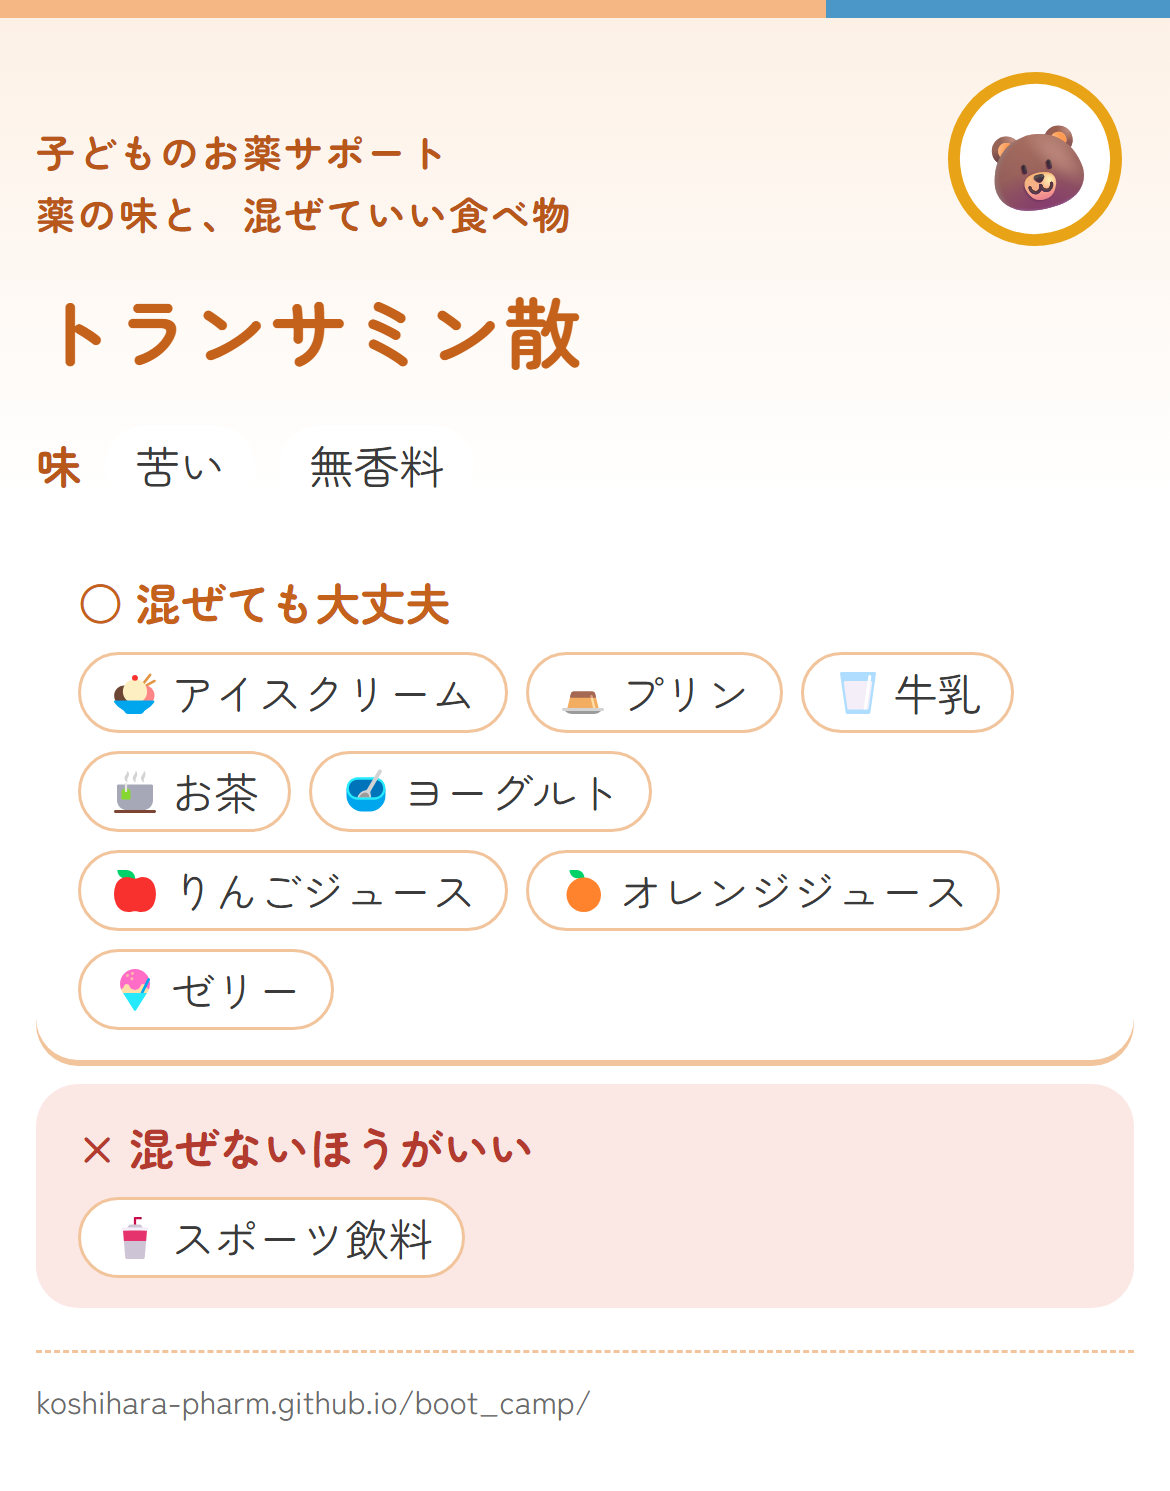
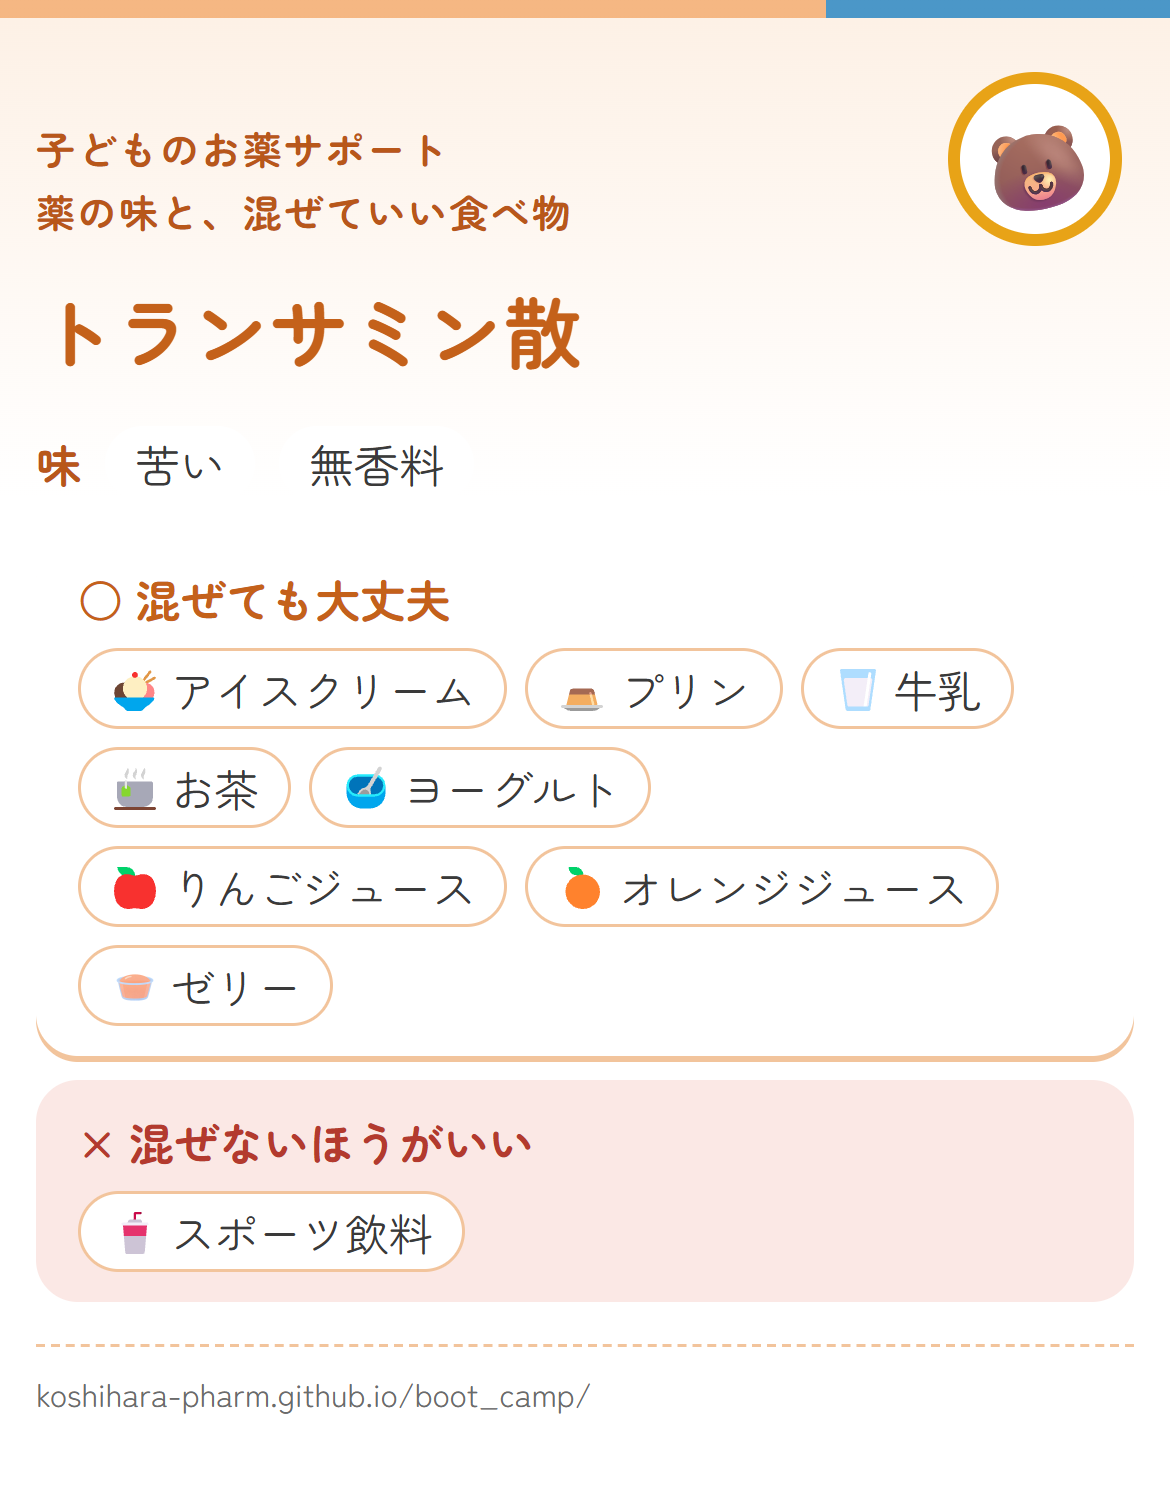
ゼリーの絵を、かき氷からゼリーのカップの絵にする（ユーザー「ゼリーのアイコンがおかしい」）
Fluent Emoji にゼリーの絵がなく、かき氷（🍧）が出ていた。Codex で、ほかの食べ物の絵と同じ画風のゼリーの絵（img/food/jelly.png）を作り、data.js の FOOD_IMG に足した。ゼリーが出る11の薬の、保存用の画像も作り直した。

diff --git a/data.js b/data.js
@@ -355,8 +355,8 @@ const HOWTO = [
 //   easy（◎ 混ぜると飲みやすい）: 成育で ●（飲みやすくなる）か、飯塚でメーカー推奨
 //   good（○ 混ぜても大丈夫）: ◎ ではないが、どれか1つの資料で大丈夫（飯塚 ○、成育 ▲、くるみ薬局 ○）
 //   avoid（×）は前と同じ: 大丈夫という資料がなく、病院の表がすべて ×。くるみ薬局の △ は「分かれる」として数えない
-// Fluent Emoji に絵が無い食べ物の、アイコンの絵（img/food/名前.png。Codex で作った。2026-11-11）。サイトの画面（index.html）と保存用の画像（card/card.html）の両方で使う
-const FOOD_IMG = { "飲むヨーグルト": "nomu-yogurt", "コーンスープ": "corn-soup", "みそ汁": "miso-soup", "お吸い物": "osuimono", "昆布茶": "kobucha" };
+// Fluent Emoji に絵が無い食べ物の、アイコンの絵（img/food/名前.png。Codex で作った。2026-11-11。ゼリーは 2026-11-26 に足した。前は Fluent Emoji のかき氷が出ていた）。サイトの画面（index.html）と保存用の画像（card/card.html）の両方で使う
+const FOOD_IMG = { "飲むヨーグルト": "nomu-yogurt", "コーンスープ": "corn-soup", "みそ汁": "miso-soup", "お吸い物": "osuimono", "昆布茶": "kobucha", "ゼリー": "jelly" };
 
 const FACT_REFS = {
   pmdaQ8: { name: "PMDA くすりQ&A「Q8 赤ちゃんに医師から処方された粉薬を飲ませるよい方法を教えてください。」", url: "https://www.pmda.go.jp/safety/consultation-for-patients/on-drugs/qa/0008.html" },

diff --git a/index.html b/index.html
@@ -411,7 +411,7 @@
 </dialog>
 
 <!-- data.js を直したら ?v= の日付も変える。古い data.js をブラウザが使い続けないようにするため -->
-<script src="data.js?v=2026-11-24p"></script>
+<script src="data.js?v=2026-11-26j"></script>
 <script>
 
   // ---- 小さな道具 ----
